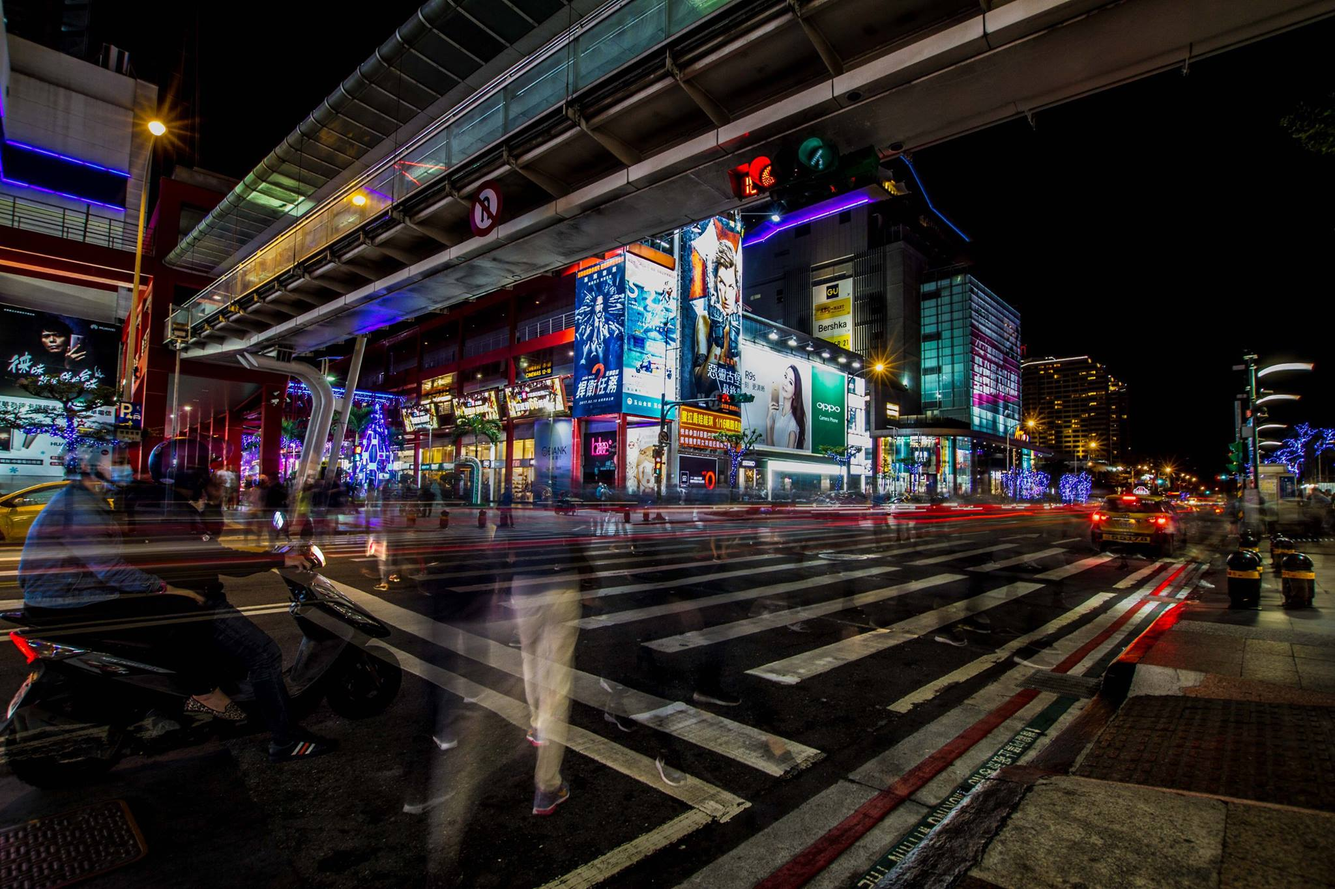
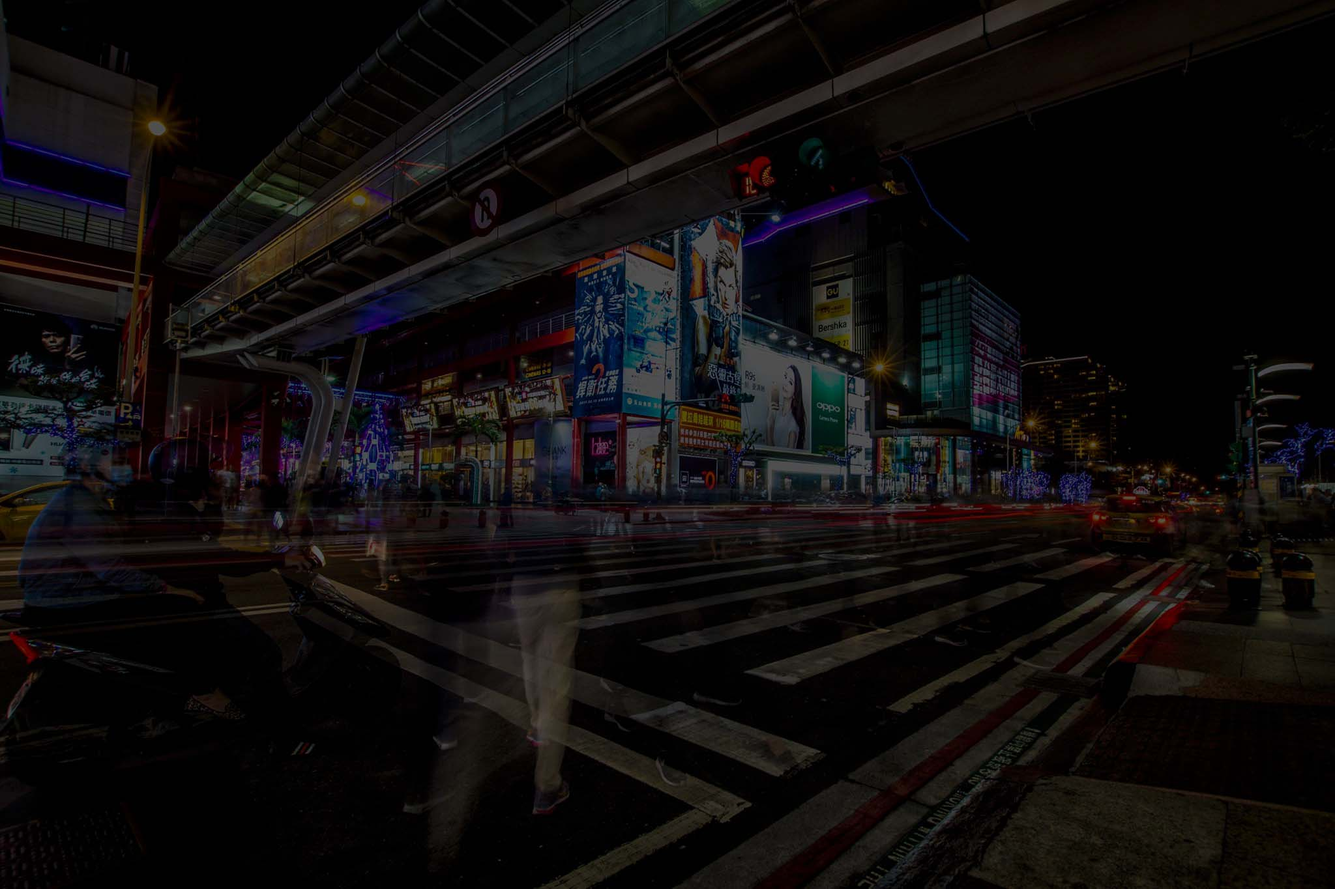
Amelioration systeme IHM
Fenetre:
- utilisation de constantes pour mieux s'y retrouver pour manipuler les
menus
- ajout d'une variable a la fonction change. Il s'agit d'une
ArrayList<Personne> qui permettra de passer un ensemble de personnes
d'un menu à l'autre.
- suppression de la barre de menu
- la fenetre est maintenant redimensionable
- le changement de menu est maintenant correctement affiché

LoginMenu:
- nouveau layout (gridbaglayout) pour mieux gérer l'emplacement des
éléments
- nouvelle façon d'afficher le fond d'écran
- remplacement du 2eme JTextField par un JPasswordField pour la
confidentalité du mot de passe lors de la saisie
- valider avec la touche entrée après avoir saisi le mot de passe est
maintenant opérationnel
- la combinaison identifiant / mot de passe "admin" / "admin" ouvre le
menu administrateur
- n'importe quelle autre combinaison identifiant / mot de passe ouvre le
menu pour rechercher un photographe (qui est actuellement vide)

AdminMenu:
- nouveau layout (gridbaglayout) pour mieux gérer l'emplacement des
éléments
- bouton "rechercher un photographe" pour ouvrir le menu pour rechercher
un photographe
- bouton "Ajouter/Modifier/Supprimer un photographe" pour ouvrir le menu
pour Ajouter/Modifier/Supprimer un photographe
- bouton "deconnexion" pour revenir au menu de login

Image:
- Image assombrie pour plus de clarté

diff --git a/ArtMeter/src/ihm/Fenetre.java b/ArtMeter/src/ihm/Fenetre.java
@@ -1,6 +1,7 @@
 package ihm;
 
 import java.awt.Color;
+import java.util.ArrayList;
 
 import javax.swing.ButtonGroup;
 import javax.swing.JFrame;
@@ -10,13 +11,22 @@ import javax.swing.JRadioButtonMenuItem;
 import javax.swing.UIManager;
 import javax.swing.UnsupportedLookAndFeelException;
 
+import classes.Photographe;
+
 public class Fenetre extends JFrame{
 	int current_layout;
+	
+	public static final int MENU_LOGIN = 1;
+	public static final int MENU_ADMIN = 2;
+	public static final int MENU_RECHERCHE = 3;
+	public static final int MENU_AJOUTER_MODIFIER_SUPPRIMER = 4;
+	public static final int MENU_RESULTAT_RECHERCHE = 5;
+	
+	
 	public Fenetre() {
 		current_layout = -1;
 		setTitle("Bienvenue sur Photoco !");
 		setBounds(0,0,800,600);
-		setResizable(false);
 		setDefaultCloseOperation(JFrame.EXIT_ON_CLOSE);
 		setLocationRelativeTo(null);
 		setFocusable(true);
@@ -32,18 +42,28 @@ public class Fenetre extends JFrame{
 		setVisible(true);
 	}
 	
-	public void change(int layout) {
+	public void change(int layout, ArrayList<Photographe> p) {
 		if(current_layout != -1 && layout != current_layout) {
 			System.out.println("efface tout !");
-			removeAll();
+			getContentPane().removeAll();
+			getContentPane().repaint();
 		}
 		//layout Login
-		if (layout == 1) {
+		if (layout == MENU_LOGIN) {
 			new LoginMenu(this);
 		} 
 		//layout admin
-		if (layout == 2) {
+		if (layout == MENU_ADMIN) {
 			new AdminMenu(this);
+		}
+		if (layout == MENU_AJOUTER_MODIFIER_SUPPRIMER) {
+			//TODO a remplir
+		}
+		if (layout == MENU_RECHERCHE) {
+			//TODO a remplir
+		}
+		if (layout == MENU_RESULTAT_RECHERCHE) {
+			//TODO a remplir
 		}
 		current_layout = layout;
 		setVisible(true);

diff --git a/ArtMeter/src/main/MainClass.java b/ArtMeter/src/main/MainClass.java
@@ -17,9 +17,9 @@ public class MainClass {
 		Fenetre fenetre = new Fenetre();
 		
 		/* chargement de la fenetre pour login */
-		fenetre.change(1);
+		fenetre.change(Fenetre.MENU_LOGIN,null);
 		
-		System.out.println("test base de donn�es:\n");
+		/*System.out.println("test base de donn�es:\n");
 		BDaccess bd = new BDaccess();
 		
 		
@@ -47,7 +47,7 @@ public class MainClass {
 			System.out.println(p);
 		}
 				
-		bd.closeConnection();
+		bd.closeConnection();*/
 		
 	}
 }
